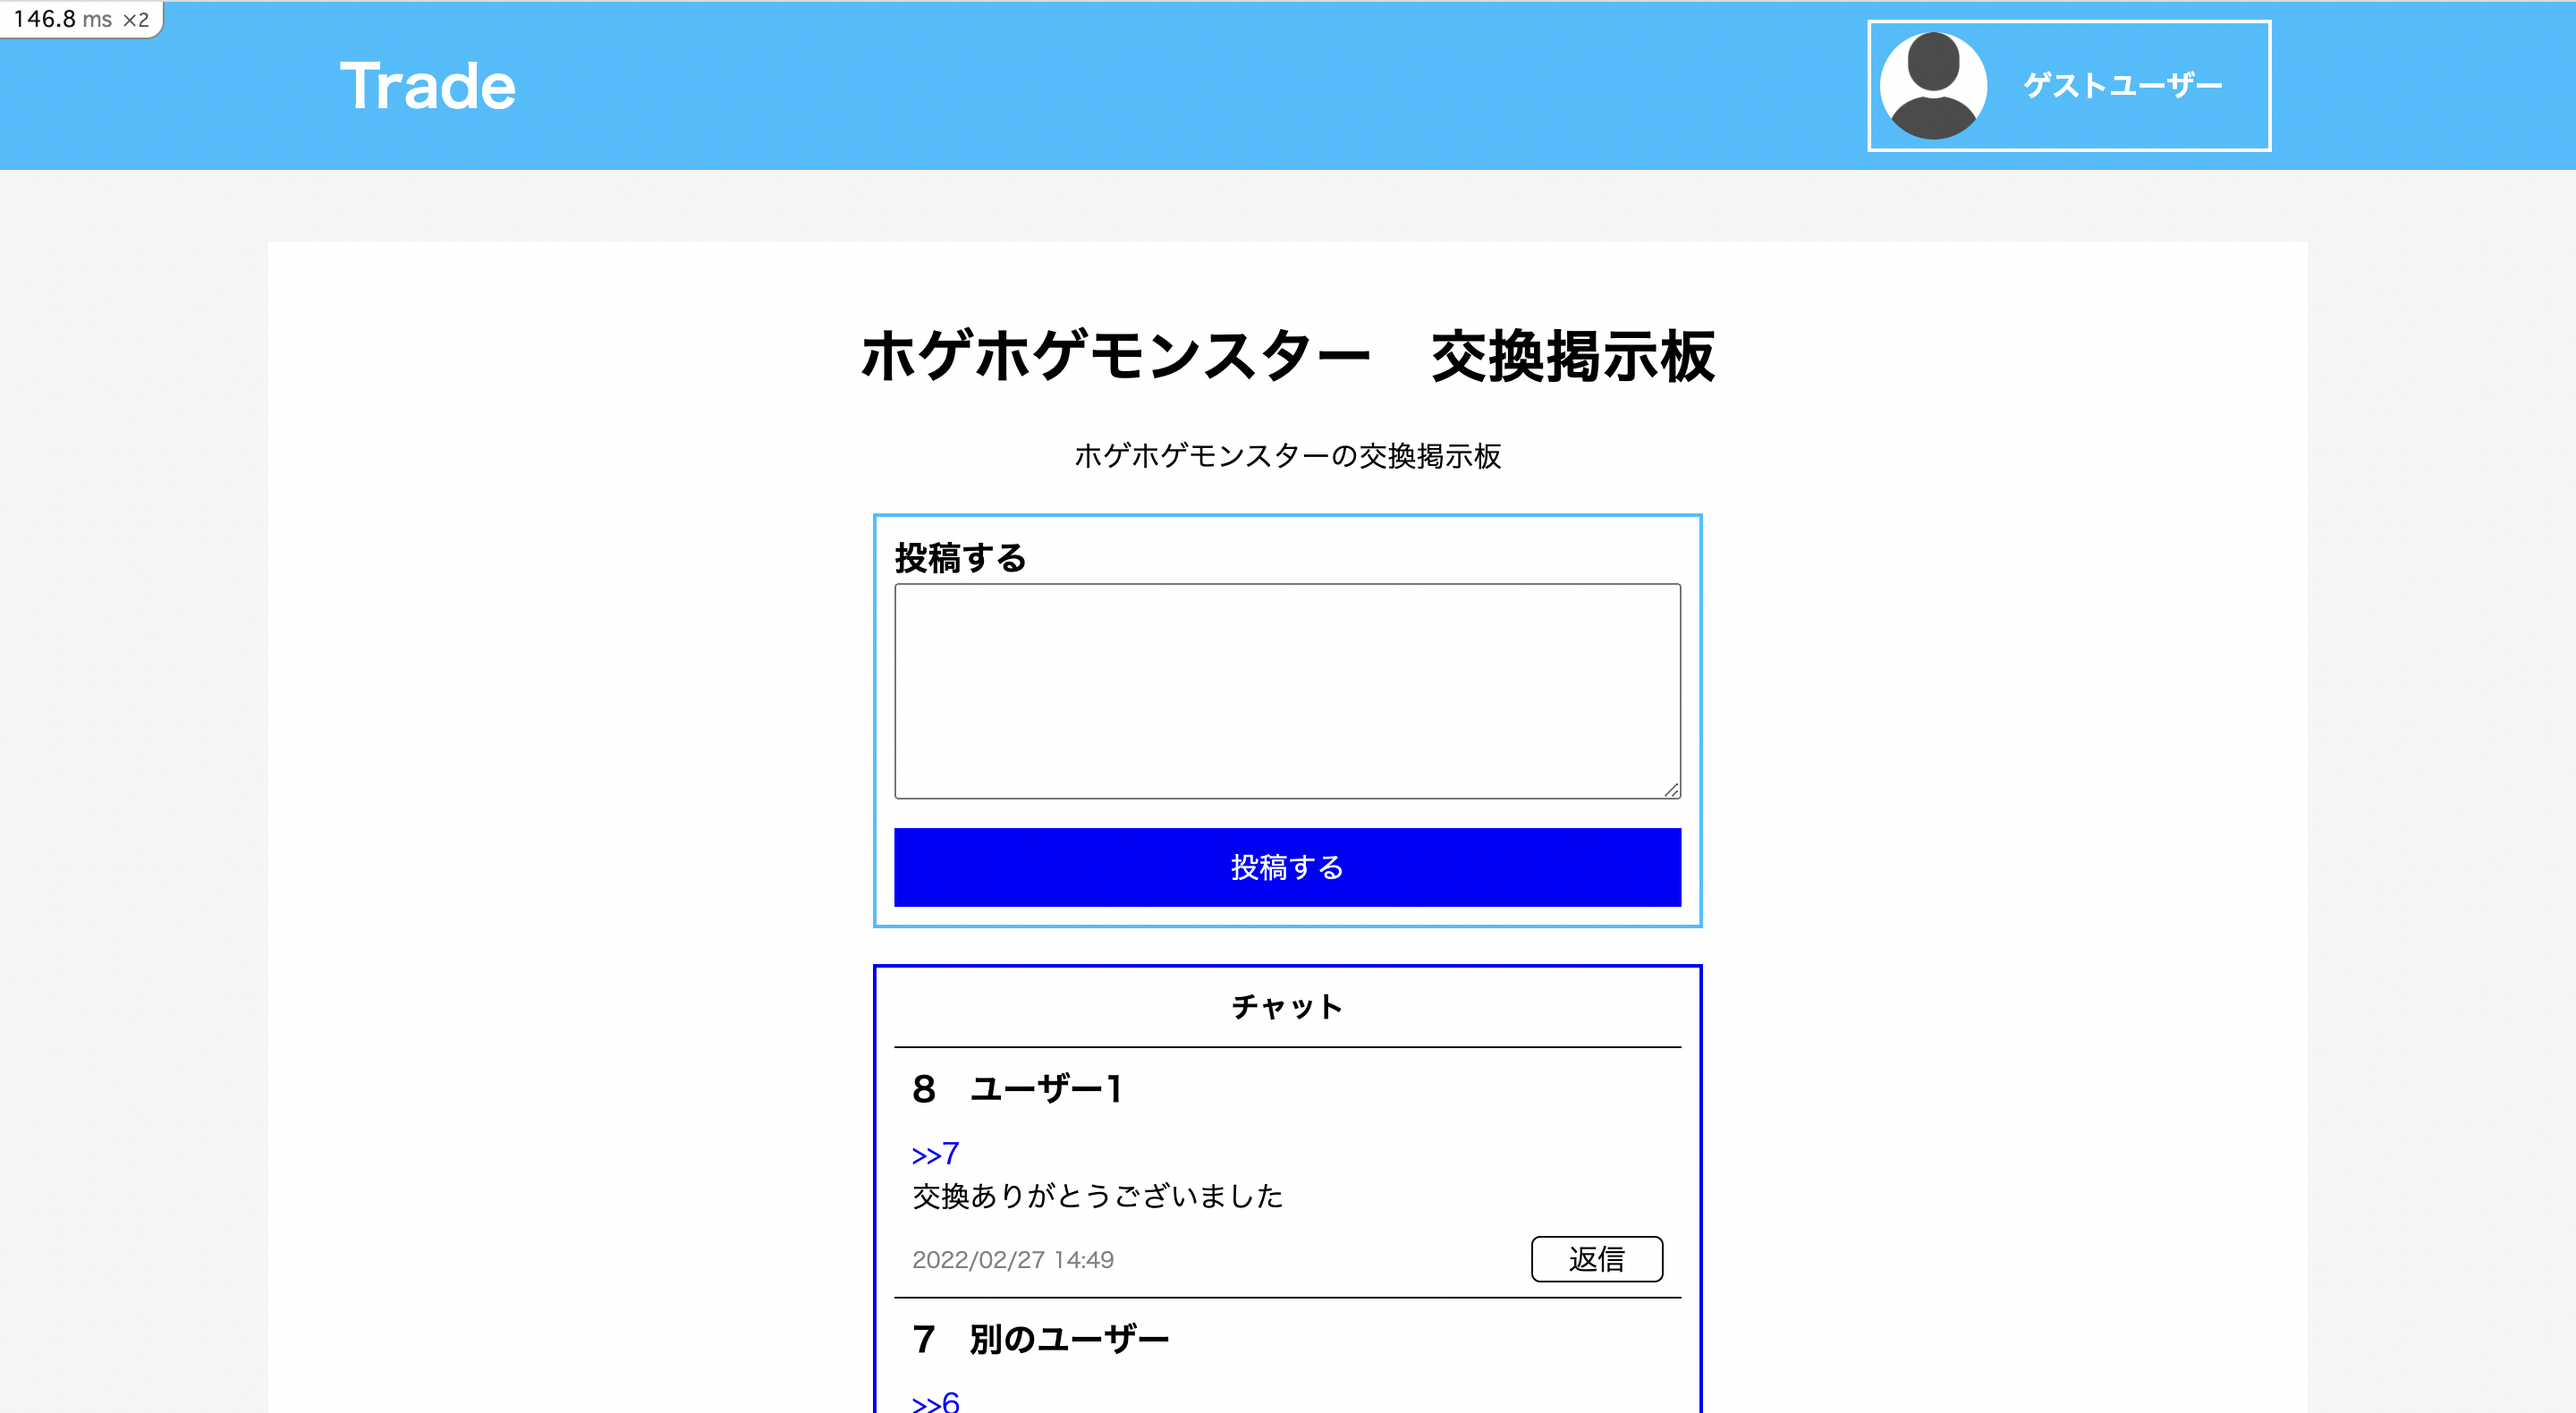
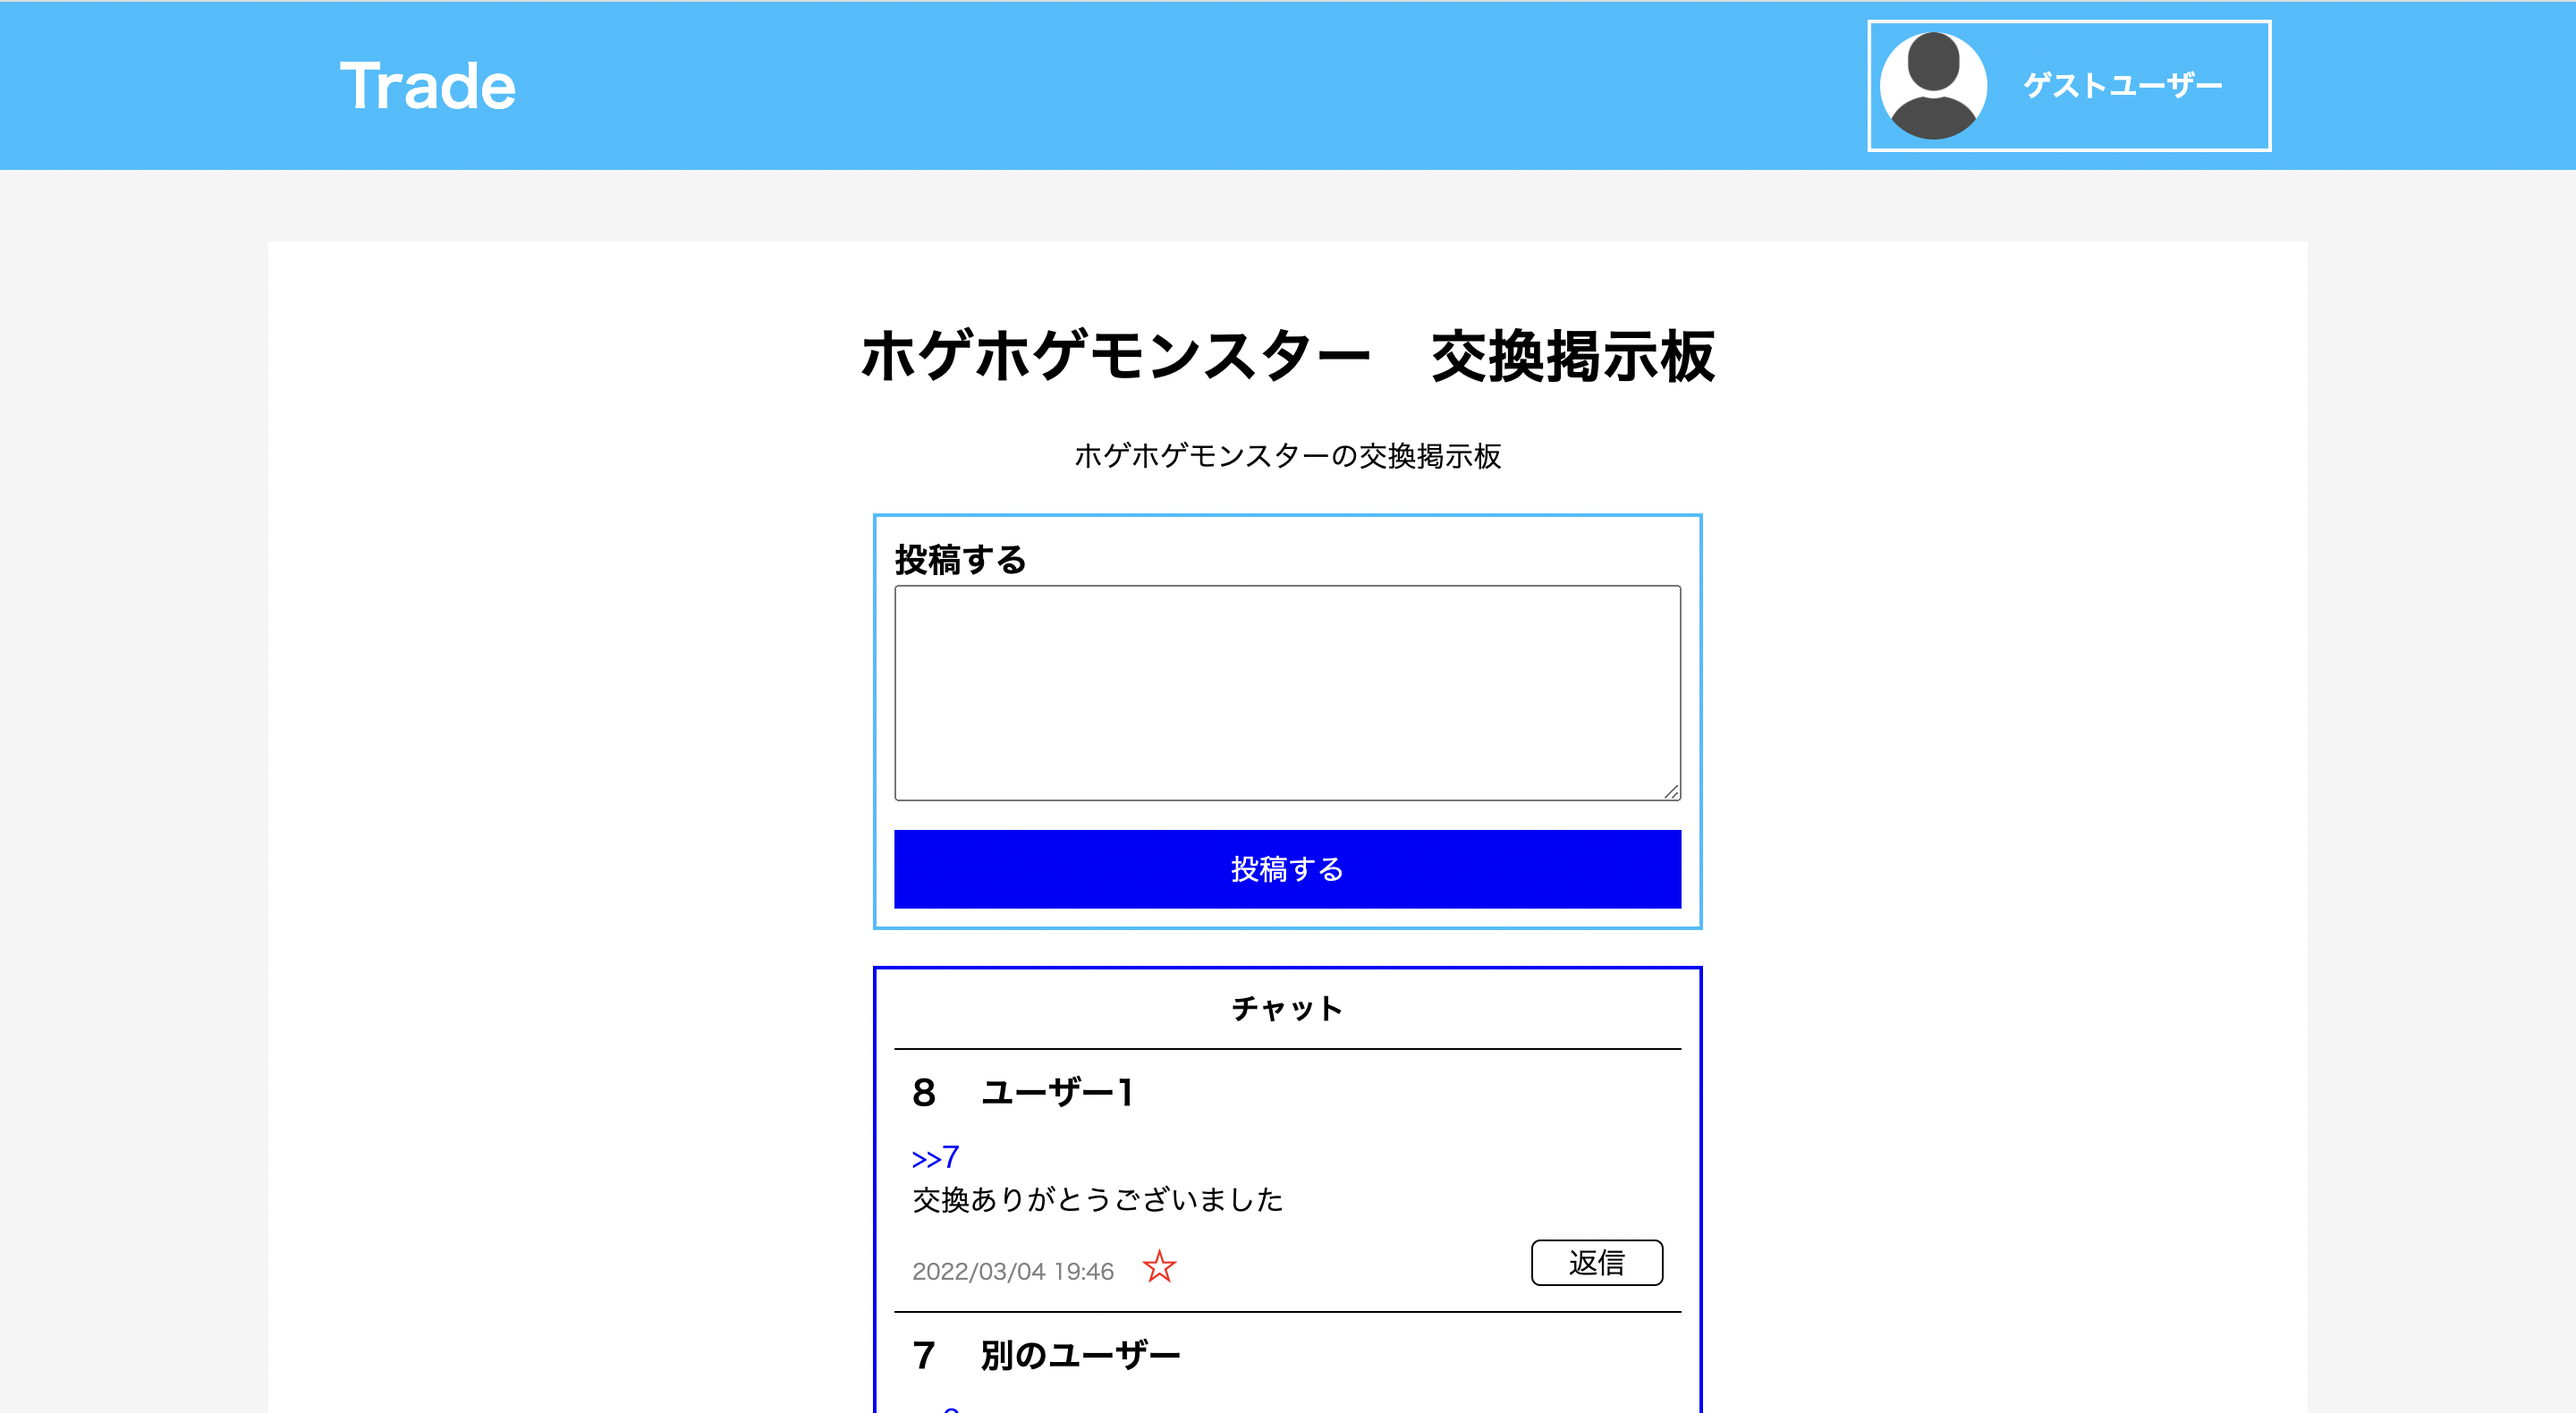
Update: READMEを編集
いいね機能追加に伴って、変更しました。

diff --git a/README.md b/README.md
@@ -70,6 +70,8 @@ Herokuにデプロイ
 
 <img src="docs/images/erd.png" alt="TradeのER図" width="70%">
 
+Likeモデルでは、どのユーザー（User）がどのチャット（Post）にいいねしたかを管理しています。
+
 ## ポートフォリオ制作について
 
 ### 特に力を入れた点
